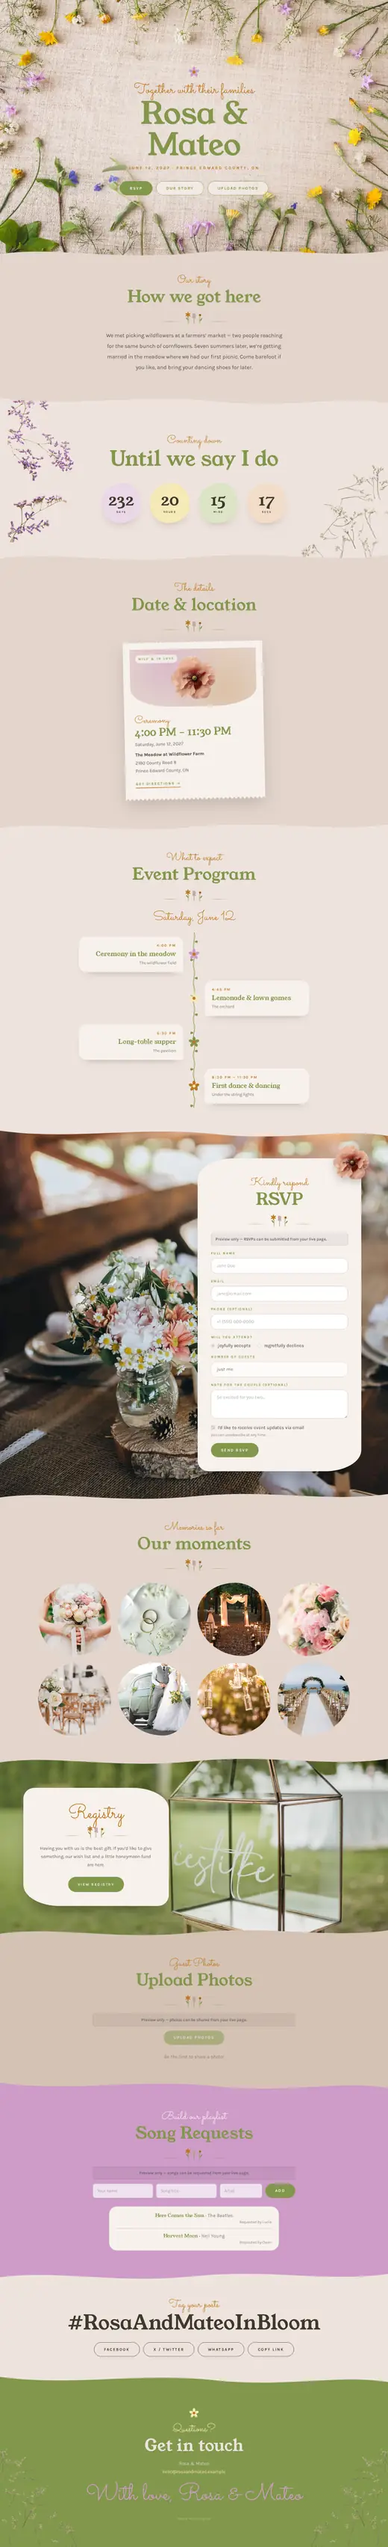
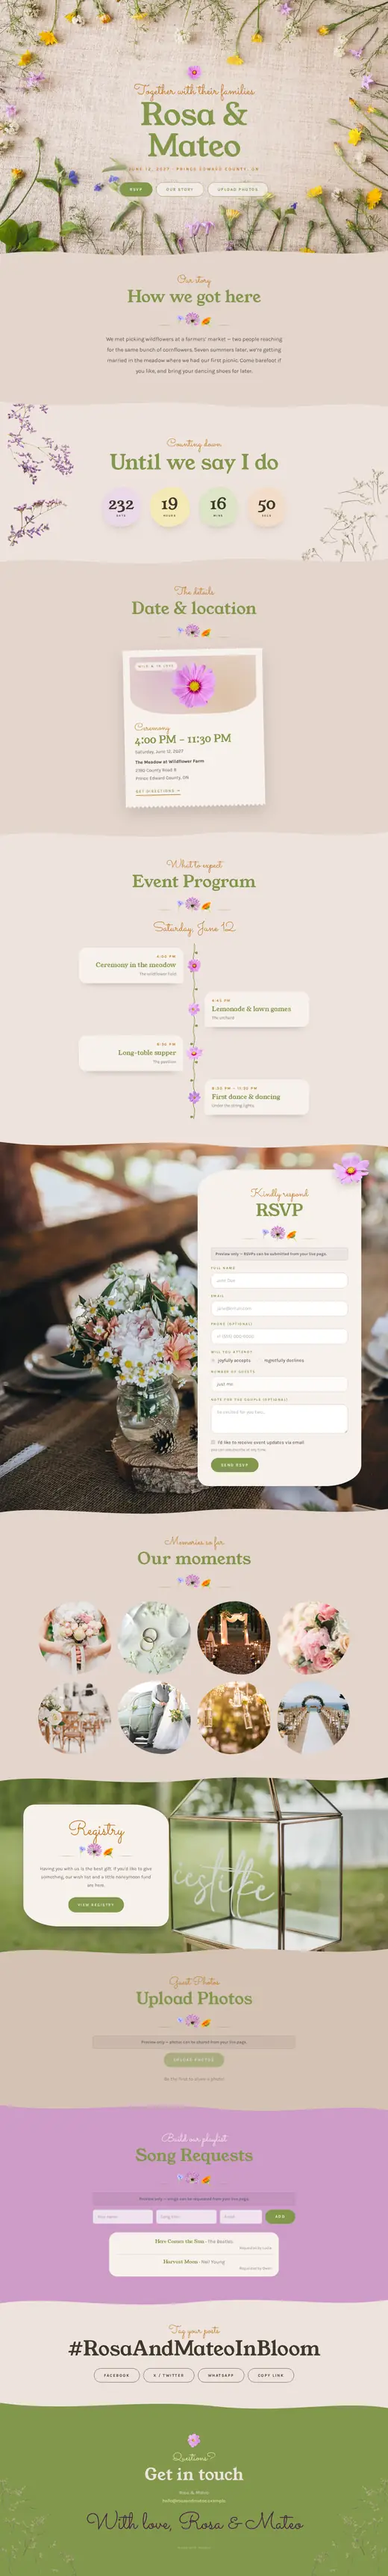
Wild Flowers: real flowers, still; plum sign-off; renamed
Replace the drawn flowers with real ones cut out of photos: a cornflower,
allium and calendula in the section rule, and four cosmos for the single
blooms (hero, Event Program, footer) and in place of the orange poppy (RSVP
card, date & location). No sway, spin or pop-in animations on the flowers.
'With love, …' is deep plum (#4A2545, ~3.95:1 on the sage footer instead
of lilac at 1.4:1). The theme is now called Wild Flowers; its slug stays
wild-flores so existing pages and links work, and the migration renames
the event_themes row. Theme gallery picture regenerated.

diff --git a/app/ui/themes/WildFlores.tsx b/app/ui/themes/WildFlores.tsx
@@ -61,43 +61,33 @@ const PAPER = '#F7F1EC';
 
 // ─── decorations ─────────────────────────────────────────
 
-// A five-petal bloom with a golden centre.
-function Bloom({ size = 28, color = LILAC, center = MARIGOLD, className, style }: { size?: number; color?: string; center?: string; className?: string; style?: React.CSSProperties }) {
+// Real flowers, photographed and cut out of their background: four cosmos
+// (seen from above) for the single blooms, and a cornflower, an allium and a
+// calendula for the section rule. Still, not animated.
+const COSMOS = [1, 2, 3, 4].map((n) => `${IMG}/cosmos-${n}.webp`);
+
+// A cosmos flower, `size` pixels tall; `variant` picks one of the four.
+function Bloom({ size = 28, variant = 0, className, style }: { size?: number; variant?: number; className?: string; style?: React.CSSProperties }) {
   return (
-    <svg className={className} style={style} width={size} height={size} viewBox="0 0 40 40" aria-hidden="true">
-      {[0, 72, 144, 216, 288].map((r) => (
-        <path key={r} d="M20 20 C 13 14, 14 3, 20 2 C 26 3, 27 14, 20 20 Z" fill={color} transform={`rotate(${r} 20 20)`} />
-      ))}
-      <circle cx="20" cy="20" r="5" fill={center} />
-    </svg>
+    // eslint-disable-next-line @next/next/no-img-element
+    <img className={className} src={COSMOS[variant % COSMOS.length]} alt="" aria-hidden="true" loading="lazy" decoding="async"
+      style={{ height: size, width: 'auto', ...style }} />
   );
 }
 
-// Three little wildflowers on swaying stems — the section rule.
+// Three little wildflowers between two lines — the section rule.
 function MeadowRule() {
   return (
     <div className="wf-rule" aria-hidden="true">
       <span className="wf-rule-line" />
-      <svg width="76" height="40" viewBox="0 0 76 40" fill="none">
-        <g className="wf-sway" style={{ transformOrigin: '20px 40px' }}>
-          <path d="M20 40 C 19 30, 22 22, 18 12" stroke={SAGE} strokeWidth="1.4" strokeLinecap="round" />
-          <path d="M20 30 C 15 28, 12 24, 12 20 C 16 21, 19 25, 20 30 Z" fill={SAGE} />
-          {[0, 60, 120, 180, 240, 300].map((r) => <ellipse key={r} cx="18" cy="7" rx="2" ry="5" fill={MARIGOLD} transform={`rotate(${r} 18 11)`} />)}
-          <circle cx="18" cy="11" r="2.4" fill={MARIGOLD} />
-        </g>
-        <g className="wf-sway" style={{ transformOrigin: '38px 40px', animationDelay: '-1.4s' }}>
-          <path d="M38 40 C 38 30, 37 20, 39 8" stroke={SAGE} strokeWidth="1.4" strokeLinecap="round" />
-          {[8, 12, 16, 20].map((y, i) => (
-            <g key={y}><circle cx={36 - (i % 2)} cy={y} r="2.4" fill={i % 2 ? SAND : LILAC} /><circle cx={41 + (i % 2)} cy={y + 1.5} r="2.2" fill={i % 2 ? LILAC : SAND} /></g>
-          ))}
-        </g>
-        <g className="wf-sway" style={{ transformOrigin: '56px 40px', animationDelay: '-2.6s' }}>
-          <path d="M56 40 C 57 31, 54 22, 58 14" stroke={SAGE} strokeWidth="1.4" strokeLinecap="round" />
-          <path d="M57 32 C 62 30, 65 26, 65 22 C 61 23, 58 27, 57 32 Z" fill={SAGE} />
-          {[0, 45, 90, 135, 180, 225, 270, 315].map((r) => <path key={r} d="M58 6 L 56.6 11 L 59.4 11 Z" fill={MARIGOLD} transform={`rotate(${r} 58 12)`} />)}
-          <circle cx="58" cy="12" r="1.8" fill={INK} />
-        </g>
-      </svg>
+      <span className="wf-rule-flowers">
+        {/* eslint-disable-next-line @next/next/no-img-element */}
+        <img src={`${IMG}/cornflower.webp`} alt="" loading="lazy" decoding="async" style={{ height: 40 }} />
+        {/* eslint-disable-next-line @next/next/no-img-element */}
+        <img src={`${IMG}/allium.webp`} alt="" loading="lazy" decoding="async" style={{ height: 52 }} />
+        {/* eslint-disable-next-line @next/next/no-img-element */}
+        <img src={`${IMG}/calendula.webp`} alt="" loading="lazy" decoding="async" style={{ height: 34 }} />
+      </span>
       <span className="wf-rule-line" />
     </div>
   );
@@ -119,7 +109,7 @@ export function HeroPreview({ heading, eventDate, city, country, bannerImage }: 
       <PreviewFont href="https://fonts.googleapis.com/css2?family=Young+Serif&family=Sacramento&display=swap" />
       <div style={{ position: 'relative', zIndex: 1, padding: '0 24px' }}>
         <p style={{ fontFamily: "'Sacramento', cursive", fontSize: 22, color: MARIGOLD, margin: '0 0 2px' }}>Together with their families</p>
-        <h2 style={{ fontFamily: "'Young Serif', Georgia, serif", fontWeight: 400, fontSize: 'clamp(26px, 4.4vw, 36px)', color: SAGE, margin: '0 0 6px', lineHeight: 1.05 }}>{heading || 'Wild Flores'}</h2>
+        <h2 style={{ fontFamily: "'Young Serif', Georgia, serif", fontWeight: 400, fontSize: 'clamp(26px, 4.4vw, 36px)', color: SAGE, margin: '0 0 6px', lineHeight: 1.05 }}>{heading || 'Wild Flowers'}</h2>
         {date && <p style={{ fontFamily: 'system-ui, sans-serif', fontSize: 9, letterSpacing: 2.5, textTransform: 'uppercase', color: MARIGOLD, fontWeight: 700, margin: 0 }}>{date}</p>}
       </div>
     </div>
@@ -148,17 +138,14 @@ const css = `
   .wf .wf-hang, .wf .wf-breath, .wf .wf-card-poppy, .wf .wf-foot-sprig, .wf .packet-art img { height: auto; }
 
   /* ─ motion: swaying stems, turning poppies, morphing blooms ─ */
-  @keyframes wf-sway { 0%, 100% { transform: rotate(-5deg); } 50% { transform: rotate(5deg); } }
-  @keyframes wf-spin { to { transform: rotate(360deg); } }
   @keyframes wf-blob { 0%, 100% { border-radius: 58% 42% 55% 45% / 48% 58% 42% 52%; } 33% { border-radius: 42% 58% 46% 54% / 56% 42% 58% 44%; } 66% { border-radius: 52% 48% 38% 62% / 42% 54% 46% 58%; } }
   @keyframes wf-in { from { opacity: 0; transform: translateY(16px); } to { opacity: 1; transform: translateY(0); } }
-  @keyframes wf-bloom { from { transform: scale(0) rotate(-90deg); } to { transform: scale(1) rotate(0deg); } }
   @media (prefers-reduced-motion: reduce) {
-    .wf .wf-sway, .wf .wf-spin, .wf .countdown-block, .wf .hero-bg, .wf .hero-content > *, .wf .wf-photo-bg, .wf .wf-hero-bloom { animation: none !important; }
+    .wf .countdown-block, .wf .hero-bg, .wf .hero-content > *, .wf .wf-photo-bg { animation: none !important; }
   }
-  .wf .wf-sway { animation: wf-sway 4.6s ease-in-out infinite; }
-  .wf .wf-spin { animation: wf-spin 40s linear infinite; }
   .wf .wf-rule { display: flex; align-items: flex-end; justify-content: center; gap: 12px; margin: 0 auto 22px; }
+  .wf .wf-rule-flowers { display: flex; align-items: flex-end; gap: 2px; }
+  .wf .wf-rule-flowers img { display: block; width: auto; }
   .wf .wf-rule-line { width: 60px; height: 1px; margin-bottom: 6px; background: linear-gradient(to right, rgba(130,151,76,0), var(--wf-sage), rgba(130,151,76,0)); }
 
   .wf .eyebrow { font-family: var(--wf-font-script); font-size: 36px; font-weight: 400; color: var(--wf-marigold); margin: 0 0 4px; line-height: 1.1; }
@@ -202,7 +189,8 @@ const css = `
   .wf .hero-overlay { position: absolute; inset: 0; z-index: 0; pointer-events: none; background: radial-gradient(ellipse 46% 42% at 50% 52%, rgba(238,227,221,0.82) 0%, rgba(238,227,221,0.35) 60%, rgba(238,227,221,0) 100%); }
   .wf .hero-content { position: relative; z-index: 2; max-width: 680px; }
   .wf .hero-content > * { animation: wf-in 1.2s ease both; }
-  .wf .wf-hero-bloom { display: inline-block; margin-bottom: 8px; animation: wf-bloom 1.4s cubic-bezier(0.3, 1.4, 0.5, 1) 0.1s both !important; }
+  /* The flowers stay still: no entrance with the rest of the hero. */
+  .wf .hero-content > .wf-hero-bloom { display: inline-block; margin-bottom: 8px; filter: drop-shadow(0 4px 8px rgba(62,58,44,0.25)); animation: none !important; opacity: 1; transform: none; }
   .wf .hero-eyebrow { animation-delay: 0.3s !important; font-family: var(--wf-font-script); font-size: clamp(34px, 3.6vw, 46px); color: var(--wf-marigold); margin: 0; line-height: 1.1; }
   .wf .hero-name { animation-delay: 0.45s !important; font-family: var(--wf-font-display); font-size: clamp(54px, 8vw, 112px); font-weight: 400; color: var(--wf-sage); margin: 0 0 16px; line-height: 1; letter-spacing: -1px; }
   .wf .hero-date { animation-delay: 0.7s !important; font-size: 13px; letter-spacing: 4px; text-transform: uppercase; color: var(--wf-marigold); font-weight: 700; margin: 0 0 34px; }
@@ -372,7 +360,7 @@ const css = `
   .wf .footer > *:not(.wf-foot-sprig) { position: relative; z-index: 2; }
   .wf .footer p { font-size: 15px; color: rgba(238,227,221,0.88); margin: 0 0 4px; }
   .wf .footer p.eyebrow { font-size: 36px; color: var(--wf-butter); }
-  .wf .footer-signoff { font-family: var(--wf-font-script); font-size: clamp(52px, 7vw, 76px) !important; color: var(--wf-lilac) !important; margin: 26px 0 0 !important; line-height: 1.05; }
+  .wf .footer-signoff { font-family: var(--wf-font-script); font-size: clamp(52px, 7vw, 76px) !important; color: #4A2545 !important; margin: 26px 0 0 !important; line-height: 1.05; }
   .wf .footer-credit { font-size: 11px !important; letter-spacing: 1px; color: rgba(238,227,221,0.5) !important; margin-top: 30px !important; }
   .wf .wf-foot-sprig { position: absolute; bottom: -40px; width: clamp(200px, 26vw, 380px); z-index: 1; pointer-events: none; opacity: 0.85; }
   .wf .wf-foot-sprig.left { left: -60px; transform: scaleX(-1); }
@@ -391,14 +379,13 @@ function formatDate(dateStr: string, city?: string, country?: string, locale = '
 const HERO_EYEBROW_DEFAULT = { en: 'Together with their families', fr: 'Avec leurs familles', es: 'Junto a sus familias' };
 // The seed packet's little label, and the bloom colours down the program stem.
 const PACKET_TAG = { en: 'Wild & in love', fr: 'Fous amoureux', es: 'Locos de amor' };
-const STEM_BLOOMS = [[LILAC, MARIGOLD], [PASTEL_BUTTER, MARIGOLD], [SAGE, MARIGOLD], [MARIGOLD, PASTEL_BUTTER], [PAPER, MARIGOLD]] as const;
 
-// The form card, with a slowly turning poppy tucked into the corner.
+// The form card, with a cosmos tucked into the corner.
 function PoppyCard({ children }: { children: React.ReactNode }) {
   return (
     <Reveal className="wf-card">
       {/* eslint-disable-next-line @next/next/no-img-element */}
-      <img className="wf-card-poppy wf-spin" src={`${IMG}/poppy.webp`} alt="" aria-hidden="true" loading="lazy" width={300} height={289} />
+      <img className="wf-card-poppy" src={`${IMG}/cosmos-3.webp`} alt="" aria-hidden="true" loading="lazy" width={756} height={600} />
       {children}
     </Reveal>
   );
@@ -510,7 +497,7 @@ export default function WildFlores({
         {!editSlots?.heroBg && <HeroOverlay overlay={heroOverlay} />}
         <div className="hero-overlay" />
         <div className="hero-content">
-          <span className="wf-hero-bloom"><Bloom size={40} color={LILAC} center={MARIGOLD} /></span>
+          <span className="wf-hero-bloom"><Bloom size={48} variant={0} /></span>
           {editSlots?.heroEyebrow ?? <p className="hero-eyebrow" style={{ whiteSpace: 'pre-line', ...heroTextStyle(heroStyle?.text.eyebrow) }}>{heroEyebrow || pickByLanguage(HERO_EYEBROW_DEFAULT, language)}</p>}
           {editSlots?.heroName ?? <h1 className="hero-name" style={{ whiteSpace: 'pre-line', ...heroTextStyle(heroStyle?.text.name) }}>{heading}</h1>}
           {heroDateText && (editSlots?.heroDate ?? <p className="hero-date" style={heroTextStyle(heroStyle?.text.date)}>{heroDateText}</p>)}
@@ -566,7 +553,7 @@ export default function WildFlores({
                   <div className="packet-art">
                     <span className="packet-tag">{pickByLanguage(PACKET_TAG, language)}</span>
                     {/* eslint-disable-next-line @next/next/no-img-element */}
-                    <img className="wf-spin" src={`${IMG}/poppy.webp`} alt="" aria-hidden="true" loading="lazy" width={300} height={289} />
+                    <img src={`${IMG}/cosmos-1.webp`} alt="" aria-hidden="true" loading="lazy" width={591} height={600} />
                   </div>
                   <div className="packet-body">
                     <p className="label">{t.ceremony}</p>
@@ -629,10 +616,9 @@ export default function WildFlores({
                   <p className="schedule-day-title">{formatProgramDate(group.date, t.dateLocale)}</p>
                   <div className="stem-list">
                     {group.items.map((item, i) => {
-                      const [color, center] = STEM_BLOOMS[i % STEM_BLOOMS.length];
                       return (
                         <div className="stem-row" key={item.id}>
-                          <span className="stem-bloom"><Bloom size={40} color={color} center={center} className="wf-spin" style={{ animationDuration: `${24 + i * 4}s` }} /></span>
+                          <span className="stem-bloom"><Bloom size={44} variant={i} /></span>
                           <div className="stem-card">
                             {formatProgramTime(item, t.dateLocale) && <p className="schedule-time">{formatProgramTime(item, t.dateLocale)}</p>}
                             <p className="name">{item.name}</p>
@@ -797,7 +783,7 @@ export default function WildFlores({
         <img className="wf-foot-sprig left" src={`${IMG}/breath.webp`} alt="" aria-hidden="true" loading="lazy" width={800} height={872} />
         {/* eslint-disable-next-line @next/next/no-img-element */}
         <img className="wf-foot-sprig right" src={`${IMG}/breath.webp`} alt="" aria-hidden="true" loading="lazy" width={800} height={872} />
-        <Bloom size={36} color={PASTEL_BUTTER} center={MARIGOLD} className="wf-spin" style={{ display: 'block', margin: '0 auto 16px' }} />
+        <Bloom size={46} variant={1} style={{ display: 'block', margin: '0 auto 16px' }} />
         <SectionText ctx={sectionTextCtx} k="footer.eyebrow" className="eyebrow on-dark" fallback={t.questions} />
         <SectionText ctx={sectionTextCtx} k="footer.title" as="h2" className="section-title on-dark" style={{ marginBottom: 10 }} fallback={t.getInTouch} />
         {editSlots?.footerContact ?? (

diff --git a/app/api/migrate/route.ts b/app/api/migrate/route.ts
@@ -75,14 +75,16 @@ export async function POST(request: Request) {
     WHERE NOT EXISTS (SELECT 1 FROM event_themes WHERE slug = 'nature')
   `;
 
-  // Wild Flores theme (Weddings category, key 'wedding').
+  // Wild Flowers theme (Weddings category, key 'wedding'). Its slug keeps the
+  // original 'wild-flores' so pages and links already made with it still work.
   await sql`
     INSERT INTO event_themes (name, description, slug)
-    SELECT 'Wild Flores',
+    SELECT 'Wild Flowers',
            'Linen, oatmeal and clover white with sage green, marigold and lilac. A wildflower frame, pressed lilac and baby''s breath, pastel blooms that change shape and a seed-packet details card. Whimsical and joyful for meadow and garden weddings.',
            'wild-flores'
     WHERE NOT EXISTS (SELECT 1 FROM event_themes WHERE slug = 'wild-flores')
   `;
+  await sql`UPDATE event_themes SET name = 'Wild Flowers' WHERE slug = 'wild-flores' AND name = 'Wild Flores'`;
 
   // Christmas Party theme (General Events category, key 'community').
   await sql`

diff --git a/app/ui/themes/registry.ts b/app/ui/themes/registry.ts
@@ -54,7 +54,7 @@ export const themeRegistry: Record<string, ThemeEntry> = {
   'the-day':            { Page: TheDay,            Preview: TheDayPreview, category: 'wedding',     label: 'The Day' },
   'love':               { Page: Love,              Preview: LovePreview,   category: 'wedding',     label: 'Love' },
   'nature':             { Page: Nature,            Preview: NaturePreview, category: 'wedding',     label: 'Nature' },
-  'wild-flores':        { Page: WildFlores,        Preview: WildFloresPreview, category: 'wedding', label: 'Wild Flores' },
+  'wild-flores':        { Page: WildFlores,        Preview: WildFloresPreview, category: 'wedding', label: 'Wild Flowers' },
   'summit':             { Page: Summit,            Preview: SummitPreview, category: 'business',    label: 'Summit' },
   'alegria':            { Page: Alegria,           Preview: AlegriaPreview, category: 'birthdays',   label: 'Alegría' },
   'fun-party':          { Page: FunParty,          Preview: FunPartyPreview, category: 'birthdays',  label: 'Fun Party' },

diff --git a/app/lib/marketing/theme-cards.ts b/app/lib/marketing/theme-cards.ts
@@ -22,7 +22,7 @@ export const THEME_CARDS: ThemeCard[] = [
   { slug: 'nature', name: 'Nature', category: 'wedding', bg: '#2A231E',
     desc: 'Walnut, oak and leaf green with candlelight, coral and daisy-gold accents. Falling leaves and fireflies — built for forest, barn and outdoor weddings.',
     sample: { heading: 'Olivia & Ethan', eventDate: '2027-09-25', city: 'Muskoka', country: 'ON' } },
-  { slug: 'wild-flores', name: 'Wild Flores', category: 'wedding', bg: '#E4D5CC',
+  { slug: 'wild-flores', name: 'Wild Flowers', category: 'wedding', bg: '#E4D5CC',
     desc: 'Linen and sage green with marigold and lilac. A wildflower frame, pressed lilac and baby’s breath, and pastel blooms that change shape — whimsical and joyful for meadow and garden weddings.',
     sample: { heading: 'Rosa & Mateo', eventDate: '2027-06-12', city: 'Prince Edward County', country: 'ON' } },
   { slug: 'terracotta-harvest', name: 'Terracotta Harvest', category: 'wedding', bg: '#F7F1E6',

diff --git a/app/page.tsx b/app/page.tsx
@@ -271,7 +271,7 @@ export default async function Page() {
                     </div>
                   </div>
                   <div className="theme-info">
-                    <p className="theme-name">Wild Flores</p>
+                    <p className="theme-name">Wild Flowers</p>
                     <p className="theme-desc">Linen and sage green with marigold and lilac, pressed wildflowers and pastel blooms that change shape — whimsical and joyful for meadow and garden weddings.</p>
                   </div>
                 </a>
